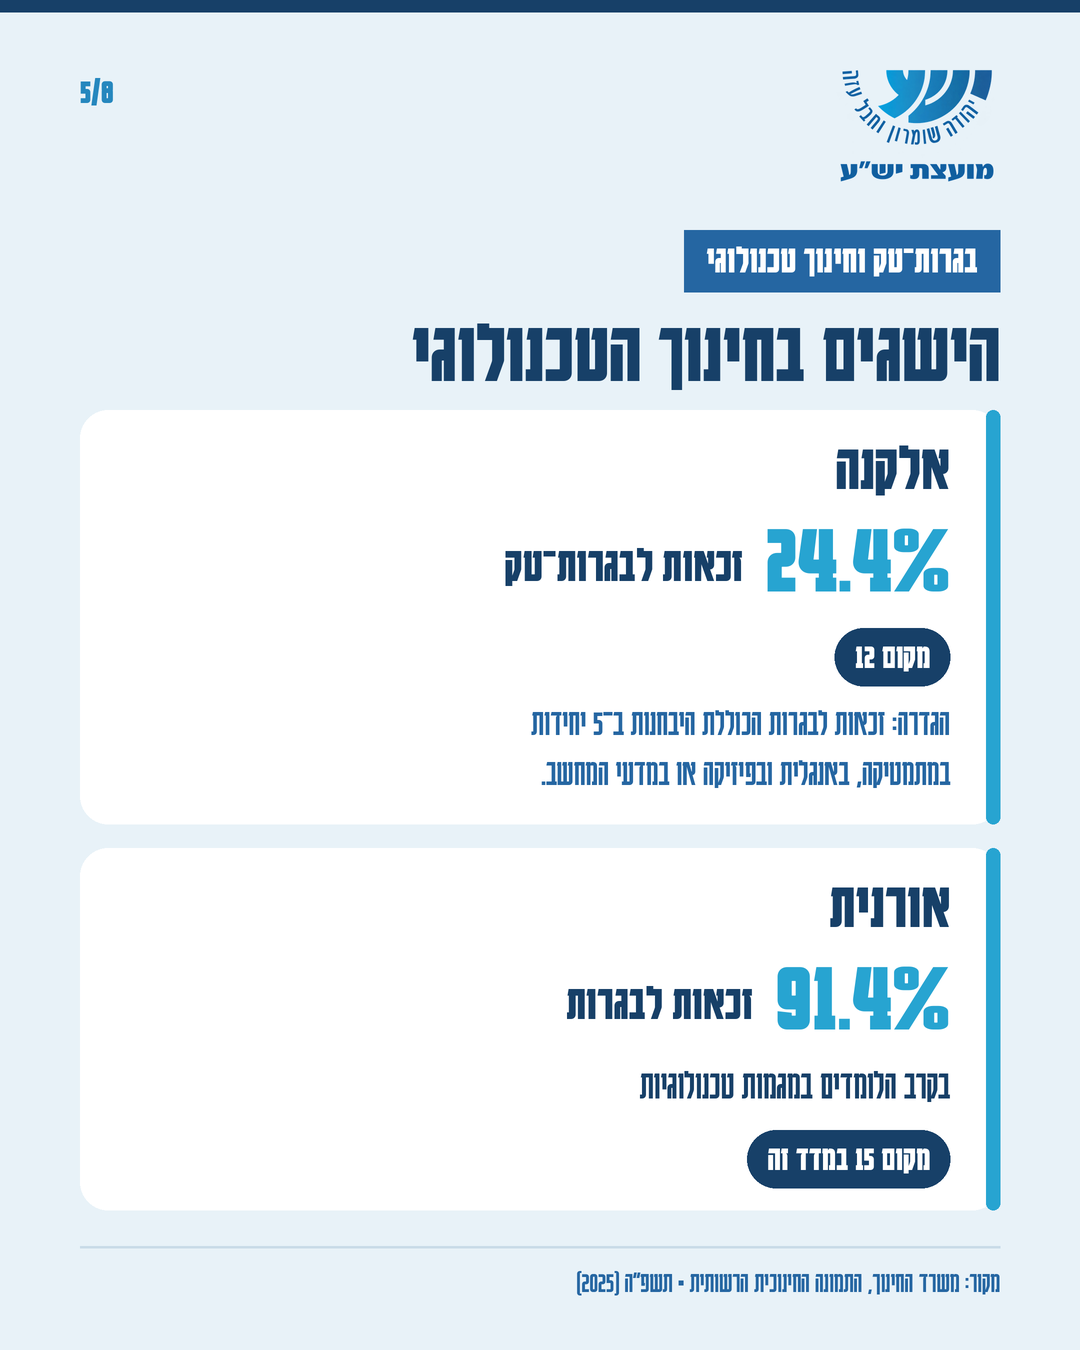
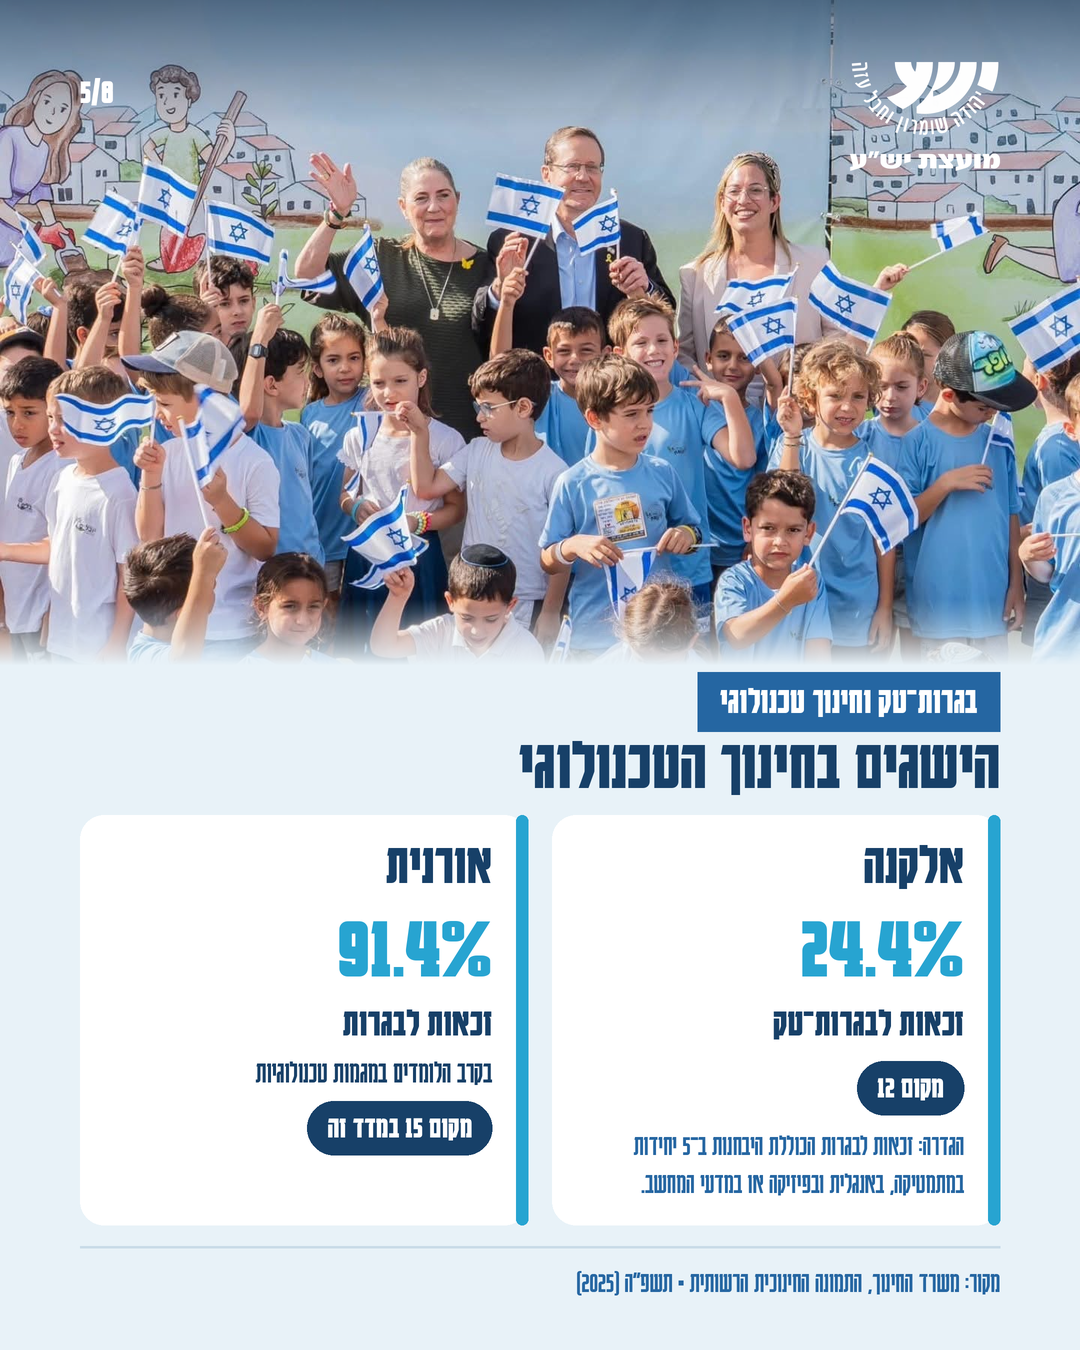
Add photo to Yesha carousel technology slide, cards side by side
Claude-Session: https://claude.ai/code/session_01RS3QK6pAd3YhyAuXZSJjH1

diff --git a/content-kit/yesha/2026-10-education-carousel-v2/make.py b/content-kit/yesha/2026-10-education-carousel-v2/make.py
@@ -89,6 +89,7 @@ PHOTO_SHOMRON = UP + '76ebff00-image.jpg'
 PHOTO_ELKANA = UP + '177480c4-image.jpg'
 PHOTO_ARMY = UP + 'ac7bf51a-image.jpg'
 PHOTO_EXCEL = UP + '08871fa1-image.jpg'
+PHOTO_TECH = UP + 'd29592b6-image.jpg'
 
 
 def bg_at(y):
@@ -273,31 +274,33 @@ def s4():
 
 # 5 — technological education (two separate metrics, no shared chart)
 def s5():
-    img = canvas(False); d = chrome(img, 5, False, SRC_EDU)
-    tag(d, 230, 'בגרות־טק וחינוך טכנולוגי', 40)
-    text(d, (W - M, 305), 'הישגים בחינוך הטכנולוגי', 88, NAVY)
+    img = canvas(False)
+    photo(img, PHOTO_TECH, 665, 0.0, ICE, fade_from=0.9, top_dark=150)
+    d = chrome(img, 5, False, SRC_EDU, on_photo=True)
+    tag(d, 672, 'בגרות־טק וחינוך טכנולוגי', 38)
+    text(d, (W - M, 726), 'הישגים בחינוך הטכנולוגי', 72, NAVY)
 
-    def card(y, h, name, big, metric, rank_tag, lines, sub=None):
-        d.rounded_rectangle(P(M, y, W - M, y + h), radius=28 * S, fill=WHITE)
-        d.rounded_rectangle(P(W - M - 14, y, W - M, y + h), radius=7 * S, fill=LB)
-        x = W - M - 50
-        text(d, (x, y + 22), name, 66, NAVY)
-        text(d, (x, y + 92), big, 104, LB, rtl=False)
-        text(d, (x - tw(d, big, 104, rtl=False) - 22, y + 128), metric, 50, NAVY)
-        py = y + 218
-        if sub:  # qualifier belongs to the metric, so it sits above the rank tag
-            text(d, (x, py - 4), sub, 42, NAVY, bold=False); py += 64
-        pill(d, x, py, rank_tag, 36)
-        yy = py + 74
-        for ln in lines:
-            text(d, (x, yy), ln, 38, BLUE, bold=False); yy += 50
+    # two separate metrics side by side: never one shared chart
+    gap = 24; cw = (W - 2 * M - gap) / 2; y0, h = 815, 410
 
-    elk = ['הגדרה: זכאות לבגרות הכוללת היבחנות ב־5 יחידות', 'במתמטיקה, באנגלית ובפיזיקה או במדעי המחשב.']
-    h1 = 292 + 50 * len(elk) + 22
-    h2 = 292 + 64 + 6
-    card(410, h1, 'אלקנה', '24.4%', 'זכאות לבגרות־טק', 'מקום 12', elk)
-    card(410 + h1 + 24, h2, 'אורנית', '91.4%', 'זכאות לבגרות', 'מקום 15 במדד זה', [],
-         sub='בקרב הלומדים במגמות טכנולוגיות')
+    def card(x_right, name, big, metric, sub, rank_tag, note):
+        d.rounded_rectangle(P(x_right - cw, y0, x_right, y0 + h), radius=24 * S, fill=WHITE)
+        d.rounded_rectangle(P(x_right - 12, y0, x_right, y0 + h), radius=6 * S, fill=LB)
+        x = x_right - 36; inner = cw - 60
+        text(d, (x, y0 + 18), name, 58, NAVY)
+        text(d, (x, y0 + 82), big, 92, LB, rtl=False)
+        text(d, (x, y0 + 186), metric, 40, NAVY)
+        yy = y0 + 240
+        for ln in wrap(d, sub, 32, inner) if sub else []:
+            text(d, (x, yy), ln, 32, NAVY, bold=False); yy += 40
+        pill(d, x, yy + 6, rank_tag, 32); yy += 74
+        for ln in wrap(d, note, 30, inner) if note else []:
+            text(d, (x, yy), ln, 30, BLUE, bold=False); yy += 38
+
+    card(W - M, 'אלקנה', '24.4%', 'זכאות לבגרות־טק', None, 'מקום 12',
+         'הגדרה: זכאות לבגרות הכוללת היבחנות ב־5 יחידות במתמטיקה, באנגלית ובפיזיקה או במדעי המחשב.')
+    card(W - M - cw - gap, 'אורנית', '91.4%', 'זכאות לבגרות', 'בקרב הלומדים במגמות טכנולוגיות',
+         'מקום 15 במדד זה', None)
     save(img, 5)
 
 
